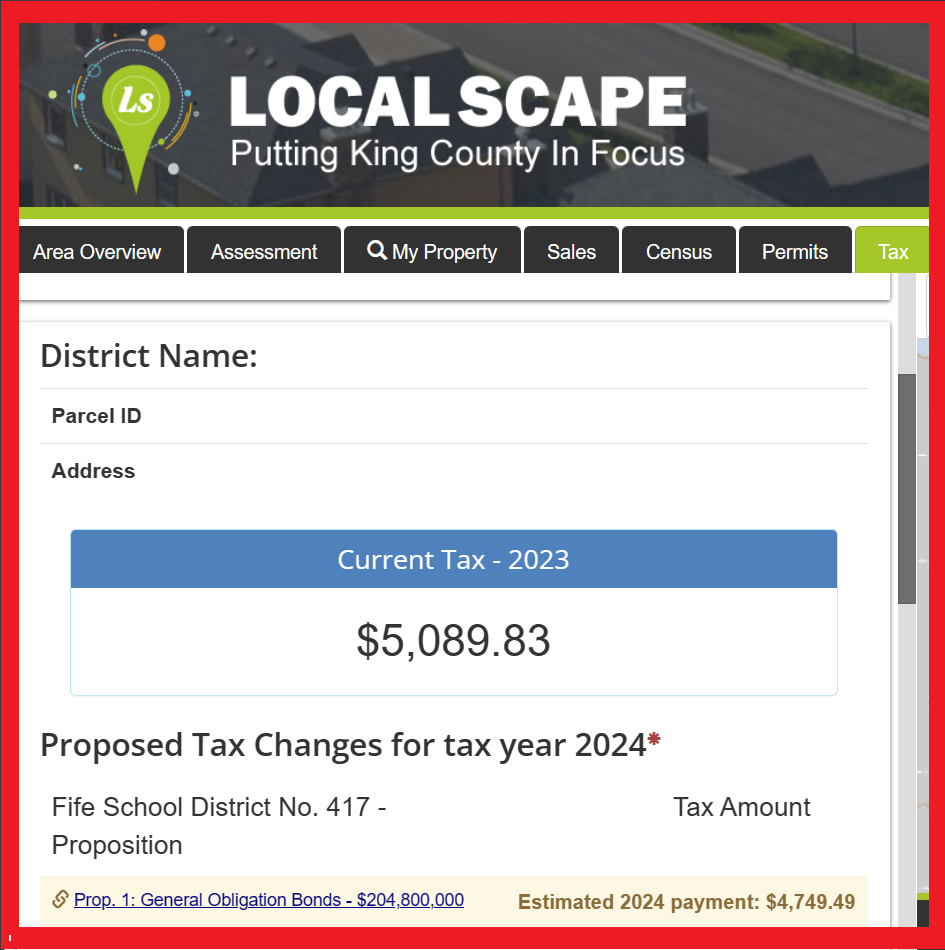
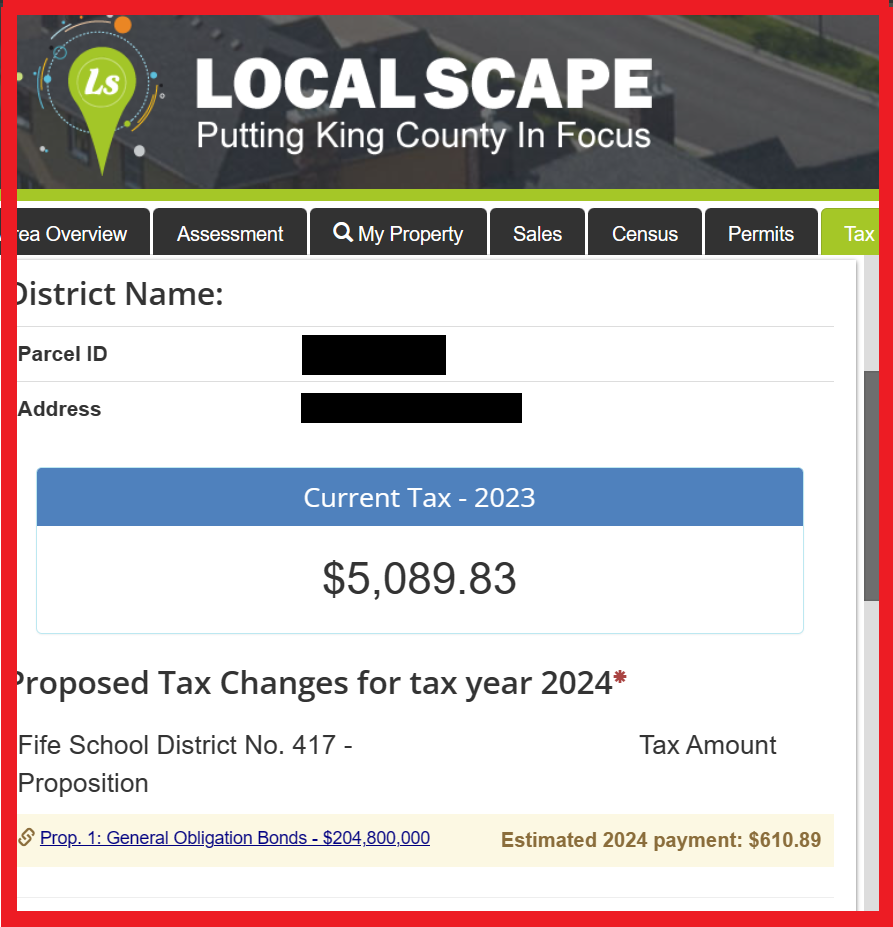
Updated Fife and Skykomish redacted charts

diff --git a/pagesManual/LeviesReport/20231107/ttt_critique.md b/pagesManual/LeviesReport/20231107/ttt_critique.md
@@ -53,7 +53,7 @@ ___
 ## Fife SD Bond
 For an actual district tax area property with a 2023 AV of $454,000:
 
-The TTT shows a cost impact for 2024 of $4,749
+The TTT shows a cost impact for 2024 of $610.89
 
 See the next image with the red border.
 
@@ -124,28 +124,6 @@ Total cost of $3,219
 ___
 
 ## Skykomish SD Tech Levy
-### Example 1
-
-For an actual district tax area property with a 2023 AV of $232,000:
-
-The TTT shows a cost impact for 2024 of $0
-
-See the next image with the red border.
-
-![TTT report for a Skykomish SD tax area example property](pagesManual/LeviesReport/20231107/TTT/TTT_SkykomishSDExampleParcelRedacted.png "Skykomish SD tax area example property")
-
-The author’s logical calculator gives the following cost info:
-
-2024 tax of $51. The tax will also be $51 for the other 3 years from 2025 through 2027. 
- 
-Total cost of $204
-
-![Logical calculator report for a Skykomish SD tax area example property](pagesManual/LeviesReport/20231107/TTT/SkykomishTechParcel.png "Skykomish SD tax area example property")
-
-[Calculator for the Skykomish SD's Tech Levy Measure](calculator_skykomish_20231107_enhanced){:target="_blank" rel="noopener"}
-
-
-### Example 2
 
 For an actual district tax area property with a 2023 AV of $263,000:
 
